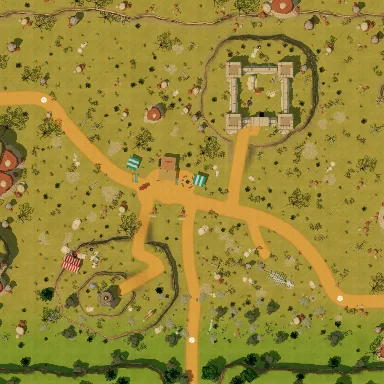
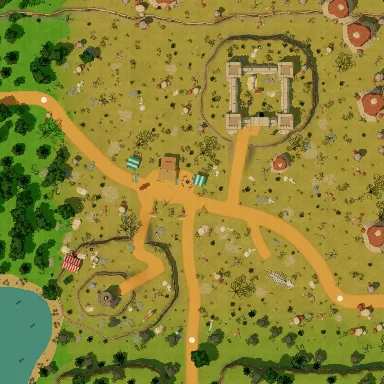
Dry plains: green west band into Venezia's woods, the bacino's head as an inlet in the south-west corner; ancient plain's monster spots back to the old count
The west fifth of the dry plains greens into the grass and woods outside Venezia's walls (the
ground shaded, grass laid over its outer part, Venezia's trees coming in, woods past the edge in
place of two buttes), and the head of Venezia's bacino reaches into the south-west corner: an
inlet of the same water with a shore of wet sand and reeds, closed off by solids. The south
ridge ends short of it. The ancient plain's monster spots sit a little closer together, as many
as before the bay took its west side (44, was 42, 38 after the bay).

Claude-Session: https://claude.ai/code/session_01EoAgD4nUuveX489aYfu2wP

diff --git a/src/world3d/field_dry_plains.ts b/src/world3d/field_dry_plains.ts
@@ -4,21 +4,25 @@
 // earth, dry grass and thorn scrub to the way on to Venezia at the north end of the west side.
 // Halfway along it stands the caravan waystation: the rest house, a well, awnings, posts where the
 // camels are tethered, a fire; from it a track runs south through a gap in the ridge to the
-// ancient plain, the ground greening towards it, olives and pines on the ridge. Mesas rise out of
-// the plain: the great one in the north-east carries an abandoned stone fort, its corner towers
-// and its gatehouse facing the long ramp up; the south-western one steps up again to a butte
-// where an old beacon tower guided the caravans by night. A dry wash winds down the south-east,
-// mud cracked in its bed, and in it lie the bleached bones of some huge beast. Lone buttes stand
-// all round past the edge.
+// ancient plain, the ground greening towards it, olives and pines on the ridge. The west side
+// greens too, into the grass and woods outside Venezia's walls, and in the south-west corner the
+// head of Venezia's bacino reaches in, a little inlet with a shore of wet sand and reeds. Mesas
+// rise out of the plain: the great one in the north-east carries an abandoned stone fort, its
+// corner towers and its gatehouse facing the long ramp up; the south-western one steps up again
+// to a butte where an old beacon tower guided the caravans by night. A dry wash winds down the
+// south-east, mud cracked in its bed, and in it lie the bleached bones of some huge beast. Lone
+// buttes stand past the north and east edges.
 //
 // Laid out at full size (north +X, west +Y) and scaled by TOWN_SCALE in finishField.
 //   ways out: west (north end) -> venezia, east (south end) -> desert_edge, south -> ancient_plain
 
 import * as THREE from "three";
 import { FieldBuilder } from "./field";
+import { buildPaved } from "./paved";
+import type { Poly } from "./paved";
 import type { Town } from "./town";
 import { useKits, colourways } from "./town";
-import { KIT as WESTFARM, smooth, band, dense, blob, toLine, towards, along } from "./kits/westfarm";
+import { KIT as WESTFARM, smooth, band, dense, blob, toLine, towards, along, inPoly } from "./kits/westfarm";
 import type { XY } from "./kits/westfarm";
 import { KIT as DESERT } from "./kits/desert";
 import { KIT as BAHAMAS } from "./kits/bahamas";
@@ -26,10 +30,11 @@ import { KIT as STEPPE, SHAPES as STEPPE_SHAPES } from "./kits/steppe";
 import { KIT as TRUNRADA } from "./kits/trunrada";
 import { KIT as FRONTIER } from "./kits/frontier";
 import { KIT as RUINS } from "./kits/ruins";
+import { KIT as VENEZIA } from "./kits/venezia";
 import type { NpcSpec } from "../npcs";
 import type { SolidSpec } from "../world";
 
-useKits(WESTFARM, DESERT, BAHAMAS, STEPPE, TRUNRADA, FRONTIER, RUINS);
+useKits(WESTFARM, DESERT, BAHAMAS, STEPPE, TRUNRADA, FRONTIER, RUINS, VENEZIA);
 // the desert's columns in the ancient plain's travertine, for the old city's stones by the south track
 colourways({ dp_travertine: { Desert_Ruin: "Ruins_Travertine", Desert_RuinDark: "Ruins_TravertineDark", Desert_RuinPale: "Ruins_TravertineMid", Desert_Fluted: "Ruins_Fluted", Desert_Sand: "Ruins_Turf", Desert_SandDark: "Ruins_Turf" } });
 
@@ -48,12 +53,10 @@ const RM2 = { top: [-1750, 1850] as XY, bottom: [-629, 1591] as XY, width: 460 }
 const RMB = { top: [-3250, 2200] as XY, bottom: [-2779, 1375] as XY, width: 420 };
 const RIMS: [XY[], number][] = [
   [[[6100, -A], [6300, -3000], [5900, 0], [6400, 3500], [6000, A], [A, A], [A, -A]], 950],
-  [[[-6000, 1300], [-6400, 4000], [-6100, A], [-A, A], [-A, 1000], [-6600, 1000]], 820],
+  [[[-6000, 1300], [-6400, 3800], [-6300, 4500], [-A, 4800], [-A, 1000], [-6600, 1000]], 820],
   [[[-6200, -A], [-A, -A], [-A, -1000], [-6600, -1000], [-6000, -1300], [-6300, -3500]], 820],
   [[[2500, -7200], [3500, -6600], [4300, -7400], [3400, -8300]], 1050],
-  [[[-3000, 6800], [-2000, 6300], [-1200, 7100], [-2200, 8000]], 900],
   [[[-1900, -7100], [-800, -6700], [-400, -7700], [-1500, -8100]], 860],
-  [[[600, 6900], [1700, 6500], [2200, 7600], [900, 8100]], 1150],
   [[[500, -8100], [1500, -7600], [2000, -8500], [800, -A]], 700],
 ];
 
@@ -80,10 +83,17 @@ const WASH_WAY: XY[] = smooth([[-750, -2000], [-1700, -2300], [-2300, -2650]]);
 const SOUTH_WAY: XY[] = smooth([[-300, 0], [-1300, 150], [-2500, 100], [-3600, -100], [-4500, -50], [-5150, 0], [-6600, 0], [-A, 0]]);
 const TRACKS = [ROAD, FORT_WAY, BEACON_WAY, WASH_WAY, SOUTH_WAY];
 const WAY_W: XY = [3200, 5150], WAY_E: XY = [-3700, -5150], WAY_S: XY = [-5150, 0];
-// how far into the band along the south edge, where the ground greens towards the ancient
-// plain's (0 at its inner side, 1 at the edge and past it)
-const GREEN0 = -3300, GREEN1 = -5500;
-const greening = (x: number) => Math.min(1, Math.max(0, (GREEN0 - x) / (GREEN0 - GREEN1)));
+// how far into the bands along the south and west edges, where the ground greens towards the
+// ancient plain's and Venezia's (0 at a band's inner side, 1 at the edge and past it)
+const GREEN0 = -3300, GREEN1 = -5500, WEST0 = 3300, WEST1 = 5500;
+const clamp01 = (t: number) => Math.min(1, Math.max(0, t));
+const greenS = (x: number) => clamp01((GREEN0 - x) / (GREEN0 - GREEN1)), greenW = (y: number) => clamp01((y - WEST0) / (WEST1 - WEST0));
+const greening = (x: number, y: number) => Math.max(greenS(x), greenW(y));
+
+// ---- the inlet: the head of Venezia's bacino reaching into the south-west corner (its shore from
+// past the west edge round to past the south edge); the water west and south of it ----
+const INLET: XY[] = [[-3300, A + 400], [-3300, 6300], [-3450, 5500], [-3800, 5050], [-4300, 4850], [-4900, 4850], [-5400, 5050], [-5900, 5400], [-6600, 5700], [-A - 400, 5900]];
+const BAY: XY[] = [...INLET, [-A - 400, A + 400]];
 
 export function build(quality: { flowers: number }): Town {
   const f = new FieldBuilder(303, {
@@ -106,33 +116,64 @@ export function build(quality: { flowers: number }): Town {
   });
   const { put, rnd } = f;
   const YARD = blob([250, 750], 620, 900, 5, 18, 0.08);
+  const roads: Poly[] = [band(ROAD, 480), band(FORT_WAY, 420), band(BEACON_WAY, 400), band(WASH_WAY, 360), band(SOUTH_WAY, 400), YARD];
   const ground = f.ground({
     area: { x0: -A, y0: -A, x1: A, y1: A },
-    roads: [band(ROAD, 480), band(FORT_WAY, 420), band(BEACON_WAY, 400), band(WASH_WAY, 360), band(SOUTH_WAY, 400), YARD],
+    roads,
     plazas: [],
+    water: [BAY],
     base: "steppe",
     tint: "#efe0bf",
     road: [0.98, 0.86, 0.7],
   });
-  // the south band greening: the dry ground's colour shaded point by point towards the ancient
-  // plain's grass, all the way at the edge and past it (a factor on its linear colour; not on the
-  // tracks)
+  // the bands greening: the dry ground's colour shaded point by point towards the ancient plain's
+  // grass on the south (half way, it dries to meet it) and all the way to Venezia's on the west, at
+  // the edge and past it (a factor on its linear colour; not on the tracks)
   {
     const geo = ground.mesh.geometry, pos = geo.getAttribute("position"), col = new Float32Array(pos.count * 3);
+    const ease = (t: number) => t * t * (3 - 2 * t);
     for (let i = 0; i < pos.count; i++) {
       const x = ground.mesh.position.x + pos.getX(i), y = -(ground.mesh.position.z + pos.getZ(i));
       const track = [[0, 0], [90, 0], [-90, 0], [0, 90], [0, -90]].some(([dx, dy]) => ground.kind(x + dx, y + dy) === 1);
-      const g = track ? 0 : greening(x), k = g * g * (3 - 2 * g);
-      col.set([1 - 0.43 * k, 1, 1 - 0.4 * k], i * 3);
+      const s = track ? 0 : ease(greenS(x)), w = track ? 0 : ease(greenW(y));
+      col.set([Math.min(1 - 0.43 * s, 1 - 0.7 * w), 1 - 0.04 * w, Math.min(1 - 0.4 * s, 1 - 0.7 * w)], i * 3);
     }
     geo.setAttribute("color", new THREE.BufferAttribute(col, 3));
     (ground.mesh.material as THREE.MeshStandardMaterial).vertexColors = true;
   }
+  // and grass laid over the outer part of the west band, a ragged edge into the dry ground (another
+  // ground a little over this one, on the same grid, following the cliffs the same way); a shore of
+  // wet sand round the inlet
+  const over = (area: { x0: number; x1: number; y0: number; y1: number }, base: string, cut: Poly[], lift: number, tint?: string) => {
+    const g = buildPaved({
+      area, roads: [], plazas: [], water: cut, base, cell: 100, ...(tint ? { tint } : {}),
+      height: (x, y) => f.h(x, y) + lift,
+      place: (x, y, cell) => {
+        const [px, py, h, k] = f.terrain.place(x, y, cell);
+        return [px, py, h + lift, k];
+      },
+    });
+    g.mesh.renderOrder = 1;
+    return g;
+  };
+  const shoreIn = INLET.map(([x, y], i): XY => {
+    const a = INLET[Math.max(0, i - 1)], b = INLET[Math.min(INLET.length - 1, i + 1)], L = Math.hypot(b[0] - a[0], b[1] - a[1]) || 1;
+    let nx = -(b[1] - a[1]) / L, ny = (b[0] - a[0]) / L;
+    if (inPoly(BAY, x + nx * 150, y + ny * 150)) [nx, ny] = [-nx, -ny];
+    return [nx, ny];
+  });
+  const SHORE_IN: XY[] = INLET.map(([x, y], i) => [x + shoreIn[i][0] * (340 + 120 * Math.sin(i * 2.1)), y + shoreIn[i][1] * (340 + 120 * Math.sin(i * 2.1))]);
+  const SHORE: Poly = [...INLET, ...[...SHORE_IN].reverse()];
+  const onShore = (x: number, y: number) => inPoly(SHORE, x, y);
+  const GRASS_IN: XY[] = [];
+  for (let x = -A; x <= A; x += 150) GRASS_IN.push([x, 4650 + 380 * Math.sin(x / 610 + 0.7) + 220 * Math.sin(x / 260 + 2.1) + 110 * Math.sin(x / 90)]);
+  const grass = over({ x0: -A, x1: A, y0: 3000, y1: A }, "grass", [[...GRASS_IN, [A, 3000], [-A, 3000]], BAY, SHORE, ...roads], 3);
+  const wet = over({ x0: -A, x1: -2000, y0: 3000, y1: A }, "sand", [BAY, [...SHORE_IN, [-A - 400, 3000], [-2000, 3000], [-2000, A + 400]], ...roads], 4, "#cbbd9c");
 
   // ---- placing things: clear of the tracks, the cliffs and each other ----
   const taken: [number, number, number][] = [];
   const nearTrack = (x: number, y: number, d: number) => TRACKS.some((t) => toLine(x, y, t) < d) || ground.kind(x, y) !== 0;
-  const free = (x: number, y: number, r: number, gap = 0) => !nearTrack(x, y, r + 230) && f.level(x, y, Math.min(r, 220)) && !taken.some(([tx, ty, tr]) => Math.hypot(tx - x, ty - y) < tr + r + gap);
+  const free = (x: number, y: number, r: number, gap = 0) => !nearTrack(x, y, r + 230) && !onShore(x, y) && f.level(x, y, Math.min(r, 220)) && !taken.some(([tx, ty, tr]) => Math.hypot(tx - x, ty - y) < tr + r + gap);
   const prop = (ref: string, at: XY, h = 0, r = 150, o: Parameters<typeof put>[3] = {}) => {
     put(ref, at, h, o);
     taken.push([at[0], at[1], r]);
@@ -150,7 +191,7 @@ export function build(quality: { flowers: number }): Town {
   const IN = { x0: -R + 300, x1: R - 300, y0: -R + 300, y1: R - 300 };
   const nearExit = (x: number, y: number) => [WAY_W, WAY_E, WAY_S].some((w) => Math.hypot(x - w[0], y - w[1]) < 1000);
   // the dry country's own things thin out over the green band
-  const dry = (x: number) => rnd() > greening(x) * 0.85;
+  const dry = (x: number, y: number) => rnd() > greening(x, y) * 0.85;
 
   // ---- the ways out ----
   f.exit("venezia", WAY_W, [2700, 4500]);
@@ -236,7 +277,7 @@ export function build(quality: { flowers: number }): Town {
   // ---- the plain: cracked earth, thorn scrub, dry grass, dead trees, rocks, bones ----
   for (let i = 0, made = 0; i < 300 && made < 16; i++) {
     const x = IN.x0 + rnd() * (IN.x1 - IN.x0), y = IN.y0 + rnd() * (IN.y1 - IN.y0);
-    if (nearTrack(x, y, 380) || !f.level(x, y, 250) || !dry(x) || taken.some(([tx, ty, tr]) => Math.hypot(tx - x, ty - y) < tr + 300)) continue;
+    if (nearTrack(x, y, 380) || !f.level(x, y, 250) || !dry(x, y) || taken.some(([tx, ty, tr]) => Math.hypot(tx - x, ty - y) < tr + 300)) continue;
     put("westfarm:cracked_earth", [x, y], rnd() * 360, { s: 0.7 + rnd() * 0.5 });
     taken.push([x, y, 150]);
     made++;
@@ -247,30 +288,51 @@ export function build(quality: { flowers: number }): Town {
   scatter(["desert:dead_tree"], 9, IN, 150, { s: [0.8, 1.1], solid: [{ kind: "tree", x: 0, y: 0, r: 26 }], keep: dry });
   scatter(["desert:acacia"], 5, IN, 260, { s: [0.8, 1.05], solid: [{ kind: "tree", x: 0, y: 0, r: 34 }] });
   scatter(["desert:dry_bush"], 46, IN, 110, { s: [0.7, 1.15], keep: dry });
-  scatter(["desert:bones", "steppe:bones", "desert:bones"], 8, IN, 200, { solid: "none", keep: (x, y) => !nearExit(x, y) && dry(x) });
+  scatter(["desert:bones", "steppe:bones", "desert:bones"], 8, IN, 200, { solid: "none", keep: (x, y) => !nearExit(x, y) && dry(x, y) });
   scatter(["desert:fallen_log", "desert:stump"], 6, IN, 200);
   scatter(["steppe:scrub", "steppe:scrub"], 14, IN, 110, { s: [0.7, 1] });
 
   // ---- the band along the south edge: the green of the ancient plain coming in, wild olives,
   // stone pines and bushes thickening towards the ridge, a column of the old city fallen by the
-  // track ----
+  // track; along the west edge the trees of the woods outside Venezia's walls ----
   const GB = { x0: -R + 300, x1: GREEN0 + 800, y0: -R + 300, y1: R - 300 };
-  const green = (x: number) => rnd() < greening(x) * 0.9 + 0.05;
-  scatter(["ruins:olive_tree"], 16, GB, 260, { s: [0.7, 1], solid: [{ kind: "tree", x: 0, y: 0, r: 40 }], keep: green });
-  scatter(["flora:Pine", "flora:PineSmall", "flora:Bush", "flora:Bush"], 16, GB, 200, { s: [0.75, 1.05], keep: green });
+  const WB = { x0: -R + 300, x1: R - 300, y0: WEST0 - 800, y1: R - 300 };
+  const green = (x: number, y: number) => rnd() < greening(x, y) * 0.9 + 0.05;
+  scatter(["ruins:olive_tree"], 16, GB, 260, { s: [0.7, 1], solid: [{ kind: "tree", x: 0, y: 0, r: 40 }], keep: (x) => rnd() < greenS(x) * 0.9 + 0.05 });
+  scatter(["flora:Pine", "flora:PineSmall", "flora:Bush", "flora:Bush"], 16, GB, 200, { s: [0.75, 1.05], keep: (x) => rnd() < greenS(x) * 0.9 + 0.05 });
+  scatter(["flora:RoundTree", "flora:BigOak", "flora:Pine", "flora:SmallTree", "flora:Bush"], 26, WB, 220, { s: [0.75, 1.05], keep: (_x, y) => rnd() < greenW(y) * 0.95 });
   prop("desert:column_fallen", [-4700, -650], 80, 200, { s: 0.8, colours: "dp_travertine" });
   prop("desert:ruin_column", [-4900, 520], 30, 120, { colours: "dp_travertine" });
   // dry grass everywhere it can grow, greener grass over the band
   const grassOut = (x: number, y: number) => nearTrack(x, y, 60) || !f.level(x, y, 90) || taken.some(([tx, ty, tr]) => Math.hypot(tx - x, ty - y) < tr * 0.8);
   // (as thick as the flowers are on the greener fields)
-  f.woods({ x0: -R, x1: R, y0: -R, y1: R }, ["grass_tuft", "grass_tuft", "grass_patch"], (x, y) => grassOut(x, y) || !dry(x), { count: Math.round(150 + 130 * quality.flowers), tries: 5000, spacing: 340, kit: "desert" });
+  f.woods({ x0: -R, x1: R, y0: -R, y1: R }, ["grass_tuft", "grass_tuft", "grass_patch"], (x, y) => grassOut(x, y) || !dry(x, y), { count: Math.round(150 + 130 * quality.flowers), tries: 5000, spacing: 340, kit: "desert" });
   f.woods({ x0: -R, x1: R, y0: -R, y1: R }, ["grass_tuft"], grassOut, { count: 80, tries: 2000, spacing: 500, kit: "steppe" });
-  f.woods(GB, ["grass_tuft", "grass_tuft", "boulder_flat"], (x, y) => grassOut(x, y) || !green(x), { count: 70, tries: 2500, spacing: 380, kit: "steppe" });
+  f.woods(IN, ["grass_tuft", "grass_tuft", "boulder_flat"], (x, y) => grassOut(x, y) || !green(x, y), { count: 110, tries: 4000, spacing: 380, kit: "steppe" });
+
+  // ---- the inlet: the water (the same as Venezia's bacino) under the cut-away ground, the shore
+  // closed off, reeds and stones on the wet sand, channel markers out on the water ----
+  const bay = f.waterSheet({ x0: -A - 2500, x1: -2600, y0: 3800, y1: A + 2500 }, -14, "Venezia_Water");
+  f.blockBand(INLET.filter(([x, y]) => Math.abs(x) < R + 600 && Math.abs(y) < R + 600).map(([x, y]) => {
+    const i = INLET.findIndex((p) => p[0] === x && p[1] === y);
+    return [x - shoreIn[i][0] * 260, y - shoreIn[i][1] * 260] as XY;
+  }), 520, { kind: "sea" });
+  for (let i = 0; i + 1 < INLET.length; i++) {
+    const [ax, ay] = INLET[i], [bx, by] = INLET[i + 1], n = Math.max(1, Math.round(Math.hypot(bx - ax, by - ay) / 360));
+    for (let k = 0; k < n; k++) {
+      const t = (k + rnd()) / n, w = 50 + rnd() * 240, x = ax + (bx - ax) * t + shoreIn[i][0] * w, y = ay + (by - ay) * t + shoreIn[i][1] * w;
+      if (Math.abs(x) > A - 300 || Math.abs(y) > A - 300 || !f.level(x, y, 60)) continue;
+      const k2 = rnd();
+      put(k2 < 0.6 ? "desert:reeds" : k2 < 0.85 ? "steppe:grass_tuft" : "steppe:boulder_flat", [x, y], rnd() * 360, { s: k2 < 0.85 ? 0.9 + rnd() * 0.5 : 0.4 + rnd() * 0.2, solid: "none" });
+    }
+  }
+  for (const at of [[-4700, 5600], [-5900, 6000], [-3900, 6100]] as XY[]) put("venezia:mooring_poles", at, rnd() * 360, { solid: "none" });
 
   // ---- past the edge: the dust, scrub and rocks going on, buttes; olives and pines on the ridge
-  // to the south ----
-  const rim = (x: number, y: number) => (Math.abs(x) < R + 250 && Math.abs(y) < R + 250) || nearTrack(x, y, 300);
-  f.woods({ x0: -5600, x1: A, y0: -A, y1: A }, ["dry_bush", "grass_patch", "grass_tuft", "boulder_big", "rock_cluster", "dead_tree", "acacia", "butte", "hoodoo"], rim, { count: 300, tries: 6000, spacing: 520, kit: "desert" });
+  // to the south, the woods outside Venezia to the west ----
+  const rim = (x: number, y: number) => (Math.abs(x) < R + 250 && Math.abs(y) < R + 250) || nearTrack(x, y, 300) || onShore(x, y) || inPoly(BAY, x, y);
+  f.woods({ x0: -5600, x1: A, y0: -A, y1: 5700 }, ["dry_bush", "grass_patch", "grass_tuft", "boulder_big", "rock_cluster", "dead_tree", "acacia", "butte", "hoodoo"], rim, { count: 260, tries: 6000, spacing: 520, kit: "desert" });
+  f.woods({ x0: -5600, x1: A, y0: 5700, y1: A }, ["RoundTree", "BigOak", "Pine", "SmallTree", "RoundTree"], rim, { count: 90, tries: 2500, spacing: 480 });
   f.woods({ x0: -A, x1: -5600, y0: -A, y1: A }, ["Pine", "Pine", "PineSmall", "Bush", "RoundTree"], rim, { count: 70, tries: 2000, spacing: 480 });
   f.woods({ x0: -A, x1: -5600, y0: -A, y1: A }, ["olive_tree"], rim, { count: 40, tries: 1500, spacing: 560, kit: "ruins" });
 
@@ -307,6 +369,7 @@ export function build(quality: { flowers: number }): Town {
 
   return f.finishField({
     ground,
+    scenery: [grass.mesh, wet.mesh, bay],
     sky: "#d6c08e",
     bounds: { minX: -R, maxX: R, minY: -R, maxY: R },
     spawn: { x: 2700, y: 4650 },

diff --git a/src/world3d/field_ancient_plain.ts b/src/world3d/field_ancient_plain.ts
@@ -349,7 +349,8 @@ export function build(quality: { flowers: number }): Town {
 
   // ---- monsters: the grass between the ruins, the platform, the hill, the arena ----
   const SCHOLAR: XY = [1800, 900], WATCH: XY = [4600, 700];
-  f.monsterSpots(ground, { x0: -R + 300, x1: R - 300, y0: -R + 300, y1: R - 300 }, { step: 840, keepOut: (x, y) => Math.hypot(x - SCHOLAR[0], y - SCHOLAR[1]) < 900 || Math.hypot(x - WATCH[0], y - WATCH[1]) < 700 });
+  // (a little closer together than the grid the plain first had: the bay has taken its west side)
+  f.monsterSpots(ground, { x0: -R + 300, x1: R - 300, y0: -R + 300, y1: R - 300 }, { step: 815, keepOut: (x, y) => Math.hypot(x - SCHOLAR[0], y - SCHOLAR[1]) < 900 || Math.hypot(x - WATCH[0], y - WATCH[1]) < 700 });
 
   const npcs: NpcSpec[] = [
     {
